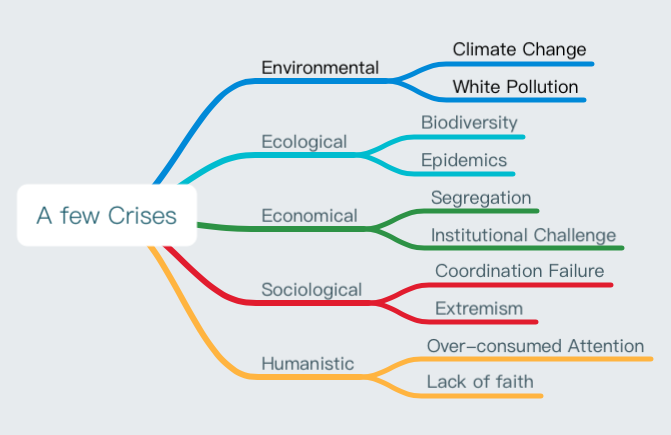
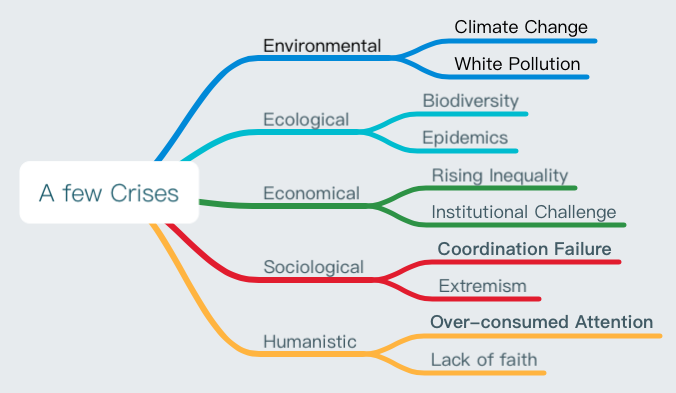
change segregation into rising inequality

Changed region(s): [[0.2086, 0.0305, 0.924, 0.5802], [0.2086, 0.5496, 0.9836, 0.9771], [0.0596, 0.458, 0.2683, 0.5191]]

diff --git a/README.md b/README.md
@@ -83,7 +83,7 @@ In together with the `institutional barriers` detailed below, causes
 - personal `anxiety` of `career lock-in` due to solidified skill and experience with new tools and methods flushing in;
 - `sociological segregation` due to difficulties to trace the source of divergence:
     - `fragmentation of Internet` that intensifies alienation;
-    - expediting `economic segregation` that raises concerns;
+    - expediting `economic rising inequality` that raises concerns;
     - democracy failure that discouraged voters with abusive attention occupation of marketing campaign and cognitive cost to identify fake news (bad faith);
     - collaboration difficulty to resolve global challenges without __effective communication__ with __comprehensive information__ and __constructive organization__ practical in larger scale. 
 
